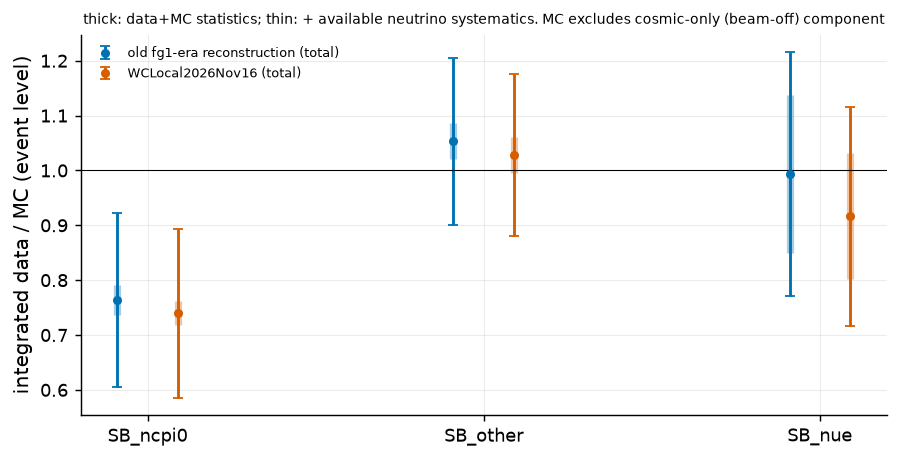
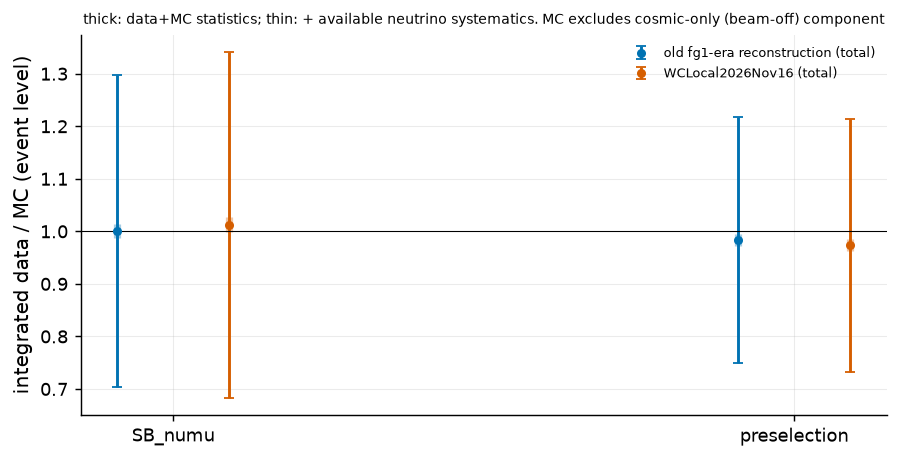
analysis: SB_numu/preselection Data/MC with available covariance; wording: omitted systematics are not a lower bound

diff --git a/docs/analysis/NCDELTA_SYSTEMATIC_WEIGHTS_FIRST_PASS.md b/docs/analysis/NCDELTA_SYSTEMATIC_WEIGHTS_FIRST_PASS.md
@@ -59,7 +59,7 @@ Coherence is supported empirically: the S-B correlation across universes is 0.99
 | sigma(P) / P, naive independent S and B | 30.4 % | 32.1 % |
 | MC statistical sigma(P)/P (not in the band) | 6.7 % | 4.3 % |
 
-How to communicate it: *WCL1116 frozen legacy chain: MC-only expected purity 2.63 %, with a preliminary +-20 % relative neutrino-model uncertainty (20.3 %) from the currently available flux/xsec/FSI/G4 weights. Detector, cosmic/beam-off normalisation, dirt, POT, the NC-Delta radiative-decay signal model, `imp_weight` and unresolved-owner events are not included.* It is not a final total uncertainty on the purity.
+How to communicate it: *WCL1116 frozen legacy chain: MC-only expected purity 2.63 %, with a preliminary +-20 % relative neutrino-model uncertainty (20.3 %) from the currently available flux/xsec/FSI/G4 weights. Detector, cosmic/beam-off normalisation, dirt, POT, the NC-Delta radiative-decay signal model, `imp_weight` and unresolved-owner events are not included.* It is not a final uncertainty on the purity (available sources only).
 
 sigma(P)/P by component (old / Nov16, per-universe coherent): flux 3.1 / 2.2 %, beamline G4 5.9 / 9.9 %, GENIE cross section 13.7 / 14.2 %, cross-section extras 3.2 / 3.5 %, GENIE FSI 8.0 / 9.7 %. Dominant: GENIE cross section, driven by `NCRESVariationResponse` (S 23 %, B 12 %, highly correlated). By topology (total available, old / Nov16): 1g0p 16.6 / 22.9 % (18.9 % without the flagged function), 1gNp 19.5 / 16.2 %. Energy histogram (`syst_cov_energy_*.npz`; 8 bins, 20-3000 MeV): total sigma/(S+B) 22-26 % (old, 6 bins with > 20 events) and 22-36 % (Nov16, 7 bins), larger than the MC statistical error in the well-populated bins (statistical 6-10 %) and smaller in the sparsely populated edge bins (statistical up to ~30 %). The very large fractional uncertainties of the nearly empty low-energy bins of the old reconstruction are not an alarm: those bins have essentially no constraining statistics. Covariances by component for S, B, S+B and purity are stored per view (all, topo2, channel3, energy).
 
@@ -82,7 +82,7 @@ If the radiative-decay model is to be in the final band, `RDecBR1gamma` dominate
 
 Same machinery, extended to the sidebands (`scripts/ncdelta_syst_regions.py plan|extract|analyze`; per-universe bin yields accumulated on the fly; the signal region stays blocked, only the open-data policy stages `sideband`/`preselection` are used). Event level for data, S and B alike (events with more than one region-passing candidate are < 0.5 % and none in the NC-pi0 sideband for the old reconstruction, so event and candidate counts coincide: 585 / 755 data events as before). For B the owner must be unique over all region-passing candidates of the event, otherwise the event is not varied. The prediction is S + B scaled to the open-data POT (4.62e18); **it does not contain the cosmic-only (beam-off) component** (scale blocked): adding it would raise the prediction and lower every Data/MC below. Independent identity/layout/vertex/PDG checks passed for all 28,251 accumulated events (13,517 old, 14,734 Nov16) with zero failures.
 
-Covariance = flux + beamline G4 + GENIE cross section + cross-section extras + GENIE FSI (79 functions, S and B with the same universe index); data statistics enter the chi-square as the Pearson (expected-count) variance, Neyman is in the table as a cross-check. **Not in the covariance: detector, cosmic/beam-off, dirt, POT, NC-Delta signal model, `imp_weight`, unresolved-owner events (resolved owners: NC-pi0 sideband 96.9 % old / 97.2 % Nov16 of events; `SB_other` ~82 %).** The chi-square with these categories missing is a lower bound on the tension in the sense that every excluded source would normally add variance, but the missing cosmic-only component would push the prediction the other way.
+Covariance = flux + beamline G4 + GENIE cross section + cross-section extras + GENIE FSI (79 functions, S and B with the same universe index); data statistics enter the chi-square as the Pearson (expected-count) variance, Neyman is in the table as a cross-check. **Not in the covariance: detector, cosmic/beam-off, dirt, POT, NC-Delta signal model, `imp_weight`, unresolved-owner events (resolved owners: NC-pi0 sideband 96.9 % old / 97.2 % Nov16 of events; `SB_other` ~82 %).** The effect of the omitted categories on the final tension is not determined: additional uncertainty sources would generally reduce the chi-square (so the present chi-square/significance is, if anything, an upper bound on the tension at fixed nominal prediction), whereas the missing cosmic-only contribution would shift the nominal prediction upward and could increase the observed rate deficit.
 
 ### NC-pi0-rich sideband (the ~25 % deficit)
 
@@ -103,10 +103,13 @@ Reading (preliminary): **once the available flux+GENIE+FSI+G4 covariance is incl
 
 ### Other regions (rate and shape; `syst_sideband_datamc_chi2_*.csv`)
 
-| Region | Data/MC old (total unc.) | Data/MC Nov16 (total unc.) | energy rate+shape chi2/ndof old / Nov16 | note |
+| Region | Data/MC old (available unc.) | Data/MC Nov16 (available unc.) | energy rate+shape chi2/ndof old / Nov16 | note |
 |---|---|---|---|---|
 | `SB_other` | 1.054 +- 0.152 | 1.028 +- 0.148 | 7.9/8 (0.44) / **25.0/8 (0.0015)** | the Nov16 energy-shape chi2 is driven by two sparsely populated high-energy bins (1 observed vs 8.3 predicted, then 8 vs 2.2); this is the cosmic-rich, outside-TPC-like sideband where the MC has no cosmic-only component, so the excess in the last bin is the pattern the missing component would give (hypothesis, not demonstrated) |
 | `SB_nue` | 0.993 +- 0.223 | 0.917 +- 0.200 | 1.8/5 (0.88) / 5.7/5 (0.34) | consistent; 3 empty-prediction energy bins dropped (ndof reduced) |
-| `SB_numu`, `preselection` | pending (second extraction) | pending | | |
+| `SB_numu` | 1.001 +- 0.297 | 1.012 +- 0.325 | 10.5/8 (0.23) / 9.2/8 (0.32) | numu-rich control close to 1; syst dominated by beamline G4 (25-28 %) |
+| `preselection` | 0.984 +- 0.239 | 0.974 +- 0.247 | 15.8/8 (0.046) / 10.3/8 (0.25) | close to 1; old-reco energy shape mildly high (p = 0.046, shape-only 14.3/7), not significant given 6 regions examined |
+
+Topology (2-bin 0p/Np) shape-only chi2/ndof in the nu-mu-rich and preselection regions is 2.6-3.2/1 (p = 0.07-0.11) for both productions, i.e. the large 1g0p/1gNp split seen in the NC-pi0 sideband (7.2-12.3/1) is specific to that region.
 
 Limitations specific to this section: the Pearson variance underestimates the variance of nearly empty bins (the Neyman column is the cross-check); 100-universe GENIE sets carry ~7 % sampling noise on each variance; shape-only chi-squares drop one bin (the sum is fixed); bins with zero prediction are dropped from the chi-square and the number of dropped bins is recorded.
